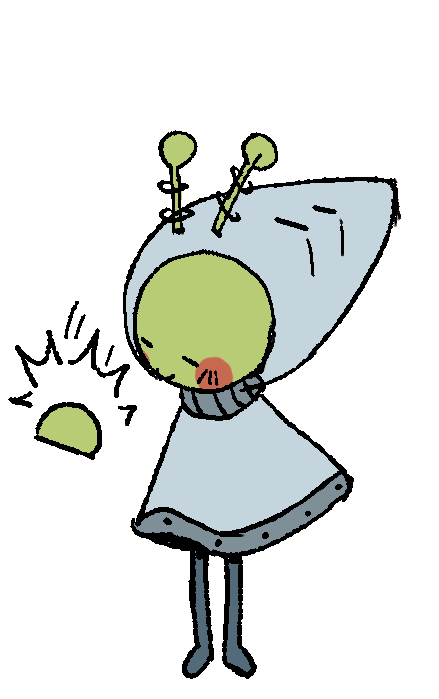
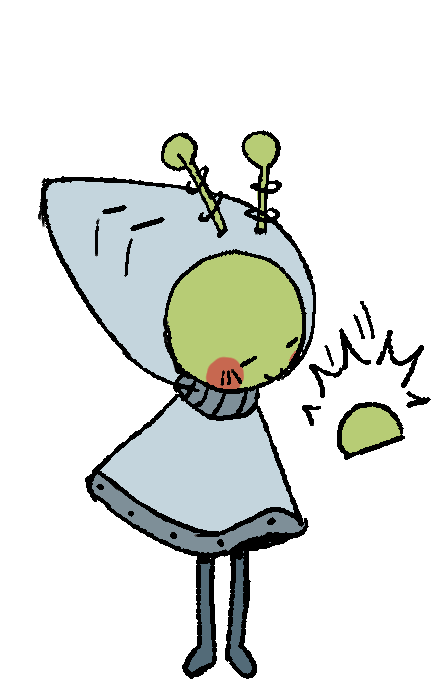
Captain button press

Changed region(s): [[0.0296, 0.1803, 0.9772, 0.9614], [0.9476, 0.4807, 0.9772, 0.5107]]

diff --git a/Assets/Environment/Button/Button.cs b/Assets/Environment/Button/Button.cs
@@ -1,24 +1,47 @@
 using UnityEngine;
 using UnityEngine.Events;
 using System.Collections.Generic;
+using System.Collections;
 
 public class Button : MonoBehaviour
 {
-    public UnityEvent OnPressed;
-    public UnityEvent OnReleased;
+    public bool Invert = false;
+    float PositionOffset = -2;
+    public UnityEvent ButtonPressed;
 
-
-    //Called when other character enters box trigger
-    void OnTriggerEnter2D(Collider2D other) {
-        if (other.CompareTag("Player") || other.CompareTag("Picmin")) {
-            Player2D p2d = other.GetComponent<Player2D>();
-        }
+    private void OnValidate()
+    {
+        gameObject.transform.localScale = Invert ? new Vector3(-1, 1, 1) : Vector3.one;
     }
 
-    //Called when other character enters box trigger
-    void OnTriggerExit2D(Collider2D other) {
-        if (other.CompareTag("Player") || other.CompareTag("Picmin")) {
-            Player2D p2d = other.GetComponent<Player2D>();
+    public void UsePipe()
+    {
+        StartCoroutine(PipeSequence());
+    }
+
+    private IEnumerator PipeSequence()
+    {
+        GameObject Captain = GameObject.Find("Captain");
+        if (Captain == null) yield break;
+
+        Player2D Player = Captain.GetComponent<Player2D>();
+
+        // Walk to button entrance and wait until arrived
+        if (Player != null)
+        {
+            Player.WalkToPoint(transform.position, 1.8f);
+            yield return new WaitUntil(() => !Player.IsWalking);
         }
+
+        // Play animation and wait 1.5s
+        Animator Anim = Captain.GetComponentInChildren<Animator>();
+        if (Anim != null)
+            Anim.SetTrigger("Special");
+
+        yield return new WaitForSeconds(.5f);
+
+        ButtonPressed.Invoke();
+
+
     }
 }
